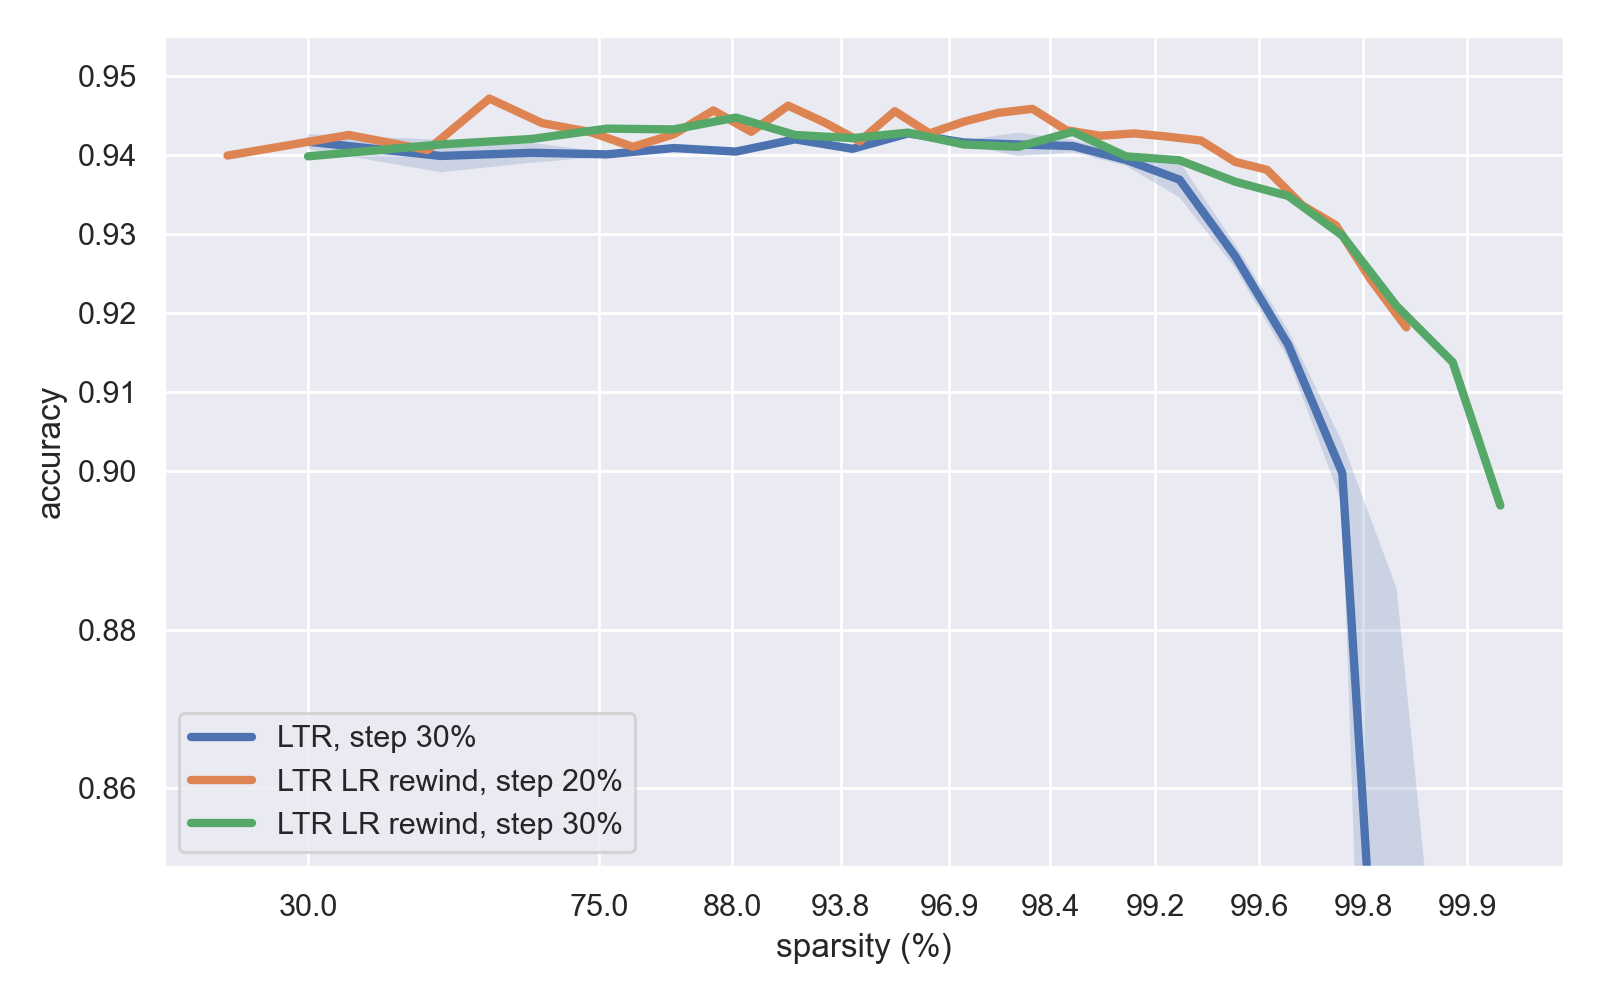
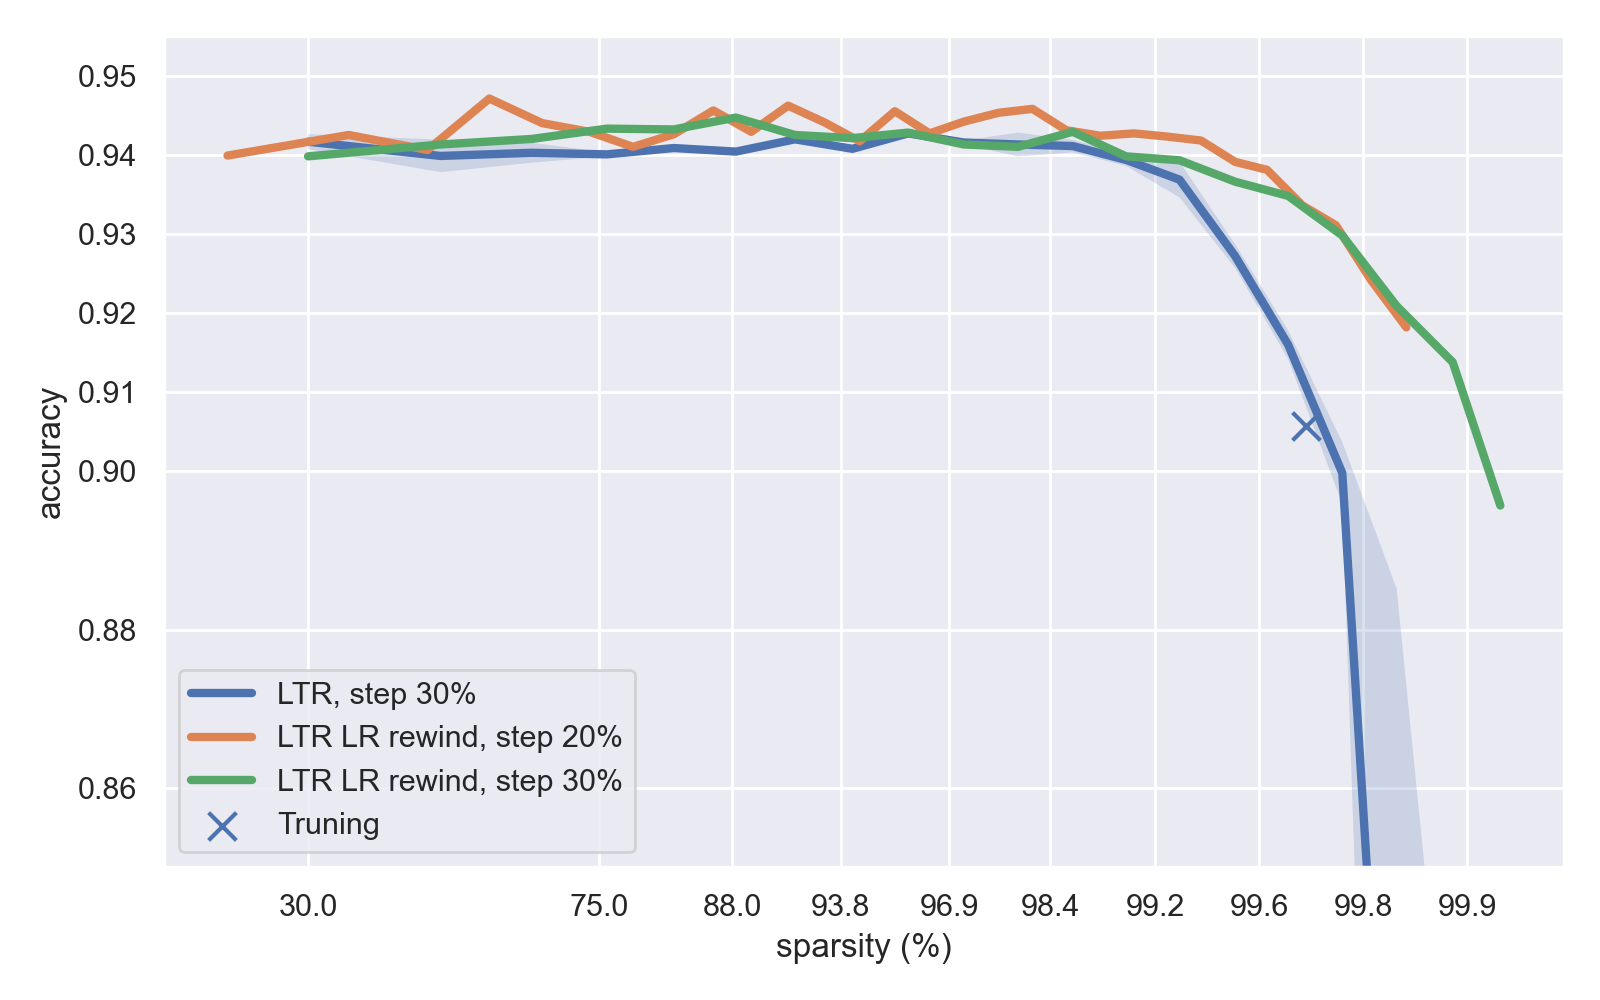
.

Changed region(s): [[0.0938, 0.682, 0.4062, 0.744], [0.125, 0.775, 0.4062, 0.837], [0.8125, 0.403, 0.8438, 0.434]]

diff --git a/experimental/truning/ntw.py b/experimental/truning/ntw.py
@@ -30,7 +30,7 @@ model.load_weights(ckp_lookup['8k'])
 ds = datasets.cifar10()
 reg_rate = tf.Variable(1e-7)
 loss_fn = tf.keras.losses.SparseCategoricalCrossentropy(from_logits=True)
-optimizer = tf.keras.optimizers.SGD(learning_rate=0.1,
+optimizer = tf.keras.optimizers.SGD(learning_rate=1.,
                                     momentum=0.99,
                                     nesterov=True)
 optimizer = mixed_precision.LossScaleOptimizer(optimizer, loss_scale=4096)
@@ -92,7 +92,7 @@ logger.show()
 
 # %%
 
-EPOCHS = 1
+EPOCHS = 8
 ITERS = 2000
 reg_rate.assign(1e-6)
 
@@ -120,7 +120,7 @@ for epoch in range(EPOCHS):
     logger['epoch_time'] = epoch_time
     logger.show()
 
-toolkit.prune_and_save_model(model, mask_activation, threshold=0.1,
+toolkit.prune_and_save_model(model, mask_activation, threshold=0.01,
                              path='temp/new_trune_workspace_ckp.h5')
 
 # %%

diff --git a/experimental/iterative_pruning_accuracy.py b/experimental/iterative_pruning_accuracy.py
@@ -17,6 +17,7 @@ name2path = {
 name2result = defaultdict(list)
 
 plt.figure(figsize=(8, 5), dpi=200)
+plt.scatter([1-0.00294], [0.9058], label='Truning', marker='x', s=100)
 
 for name, (path, *eid) in name2path.items():
     if path.endswith('.yaml'):
